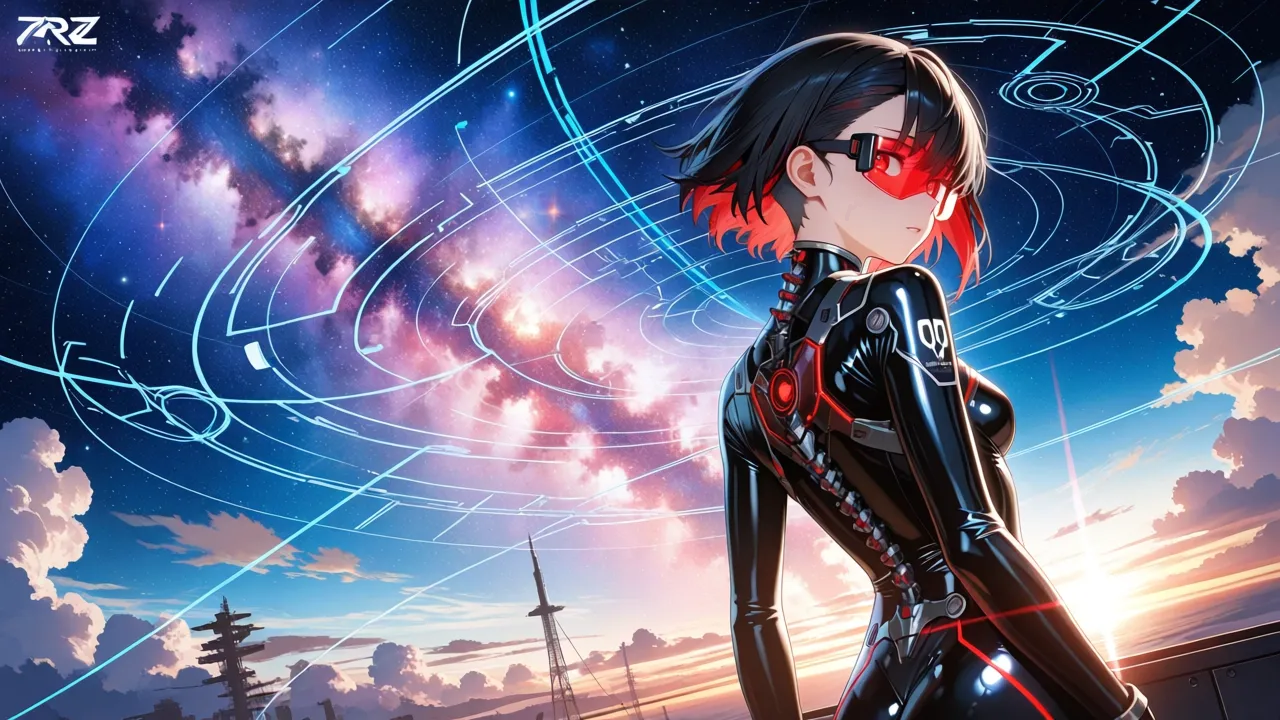
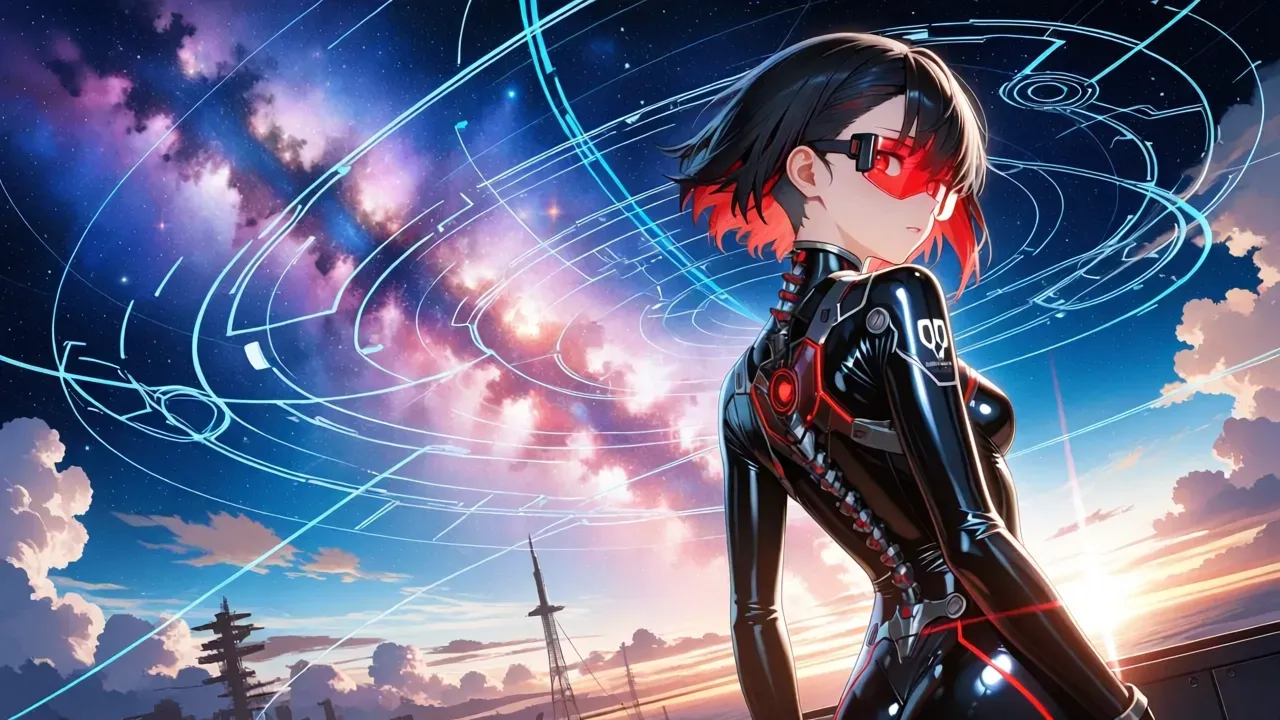
Updated key visual and index.html for the latest changes.

Changed region(s): [[0.0, 0.0, 0.0938, 0.0917]]

diff --git a/mozcrisis/index.html b/mozcrisis/index.html
@@ -603,7 +603,7 @@
                     <span class="disc-title">虚数解</span>
                     <div class="disc-date">2026.8.11</div>
                     <div class="link-area">
-                        <a class="yt-link" href="https://youtu.be/o4_gzqkNV4k" target="_blank">WATCH</a>
+                        <a class="yt-link" href="https://youtu.be/JNjDlVZooRM" target="_blank">WATCH</a>
                         <a class="dl-link" href="https://github.com/origiaworks/works/releases/tag/kyosuukai"
                             target="_blank">DOWNLOAD</a>
                     </div>
